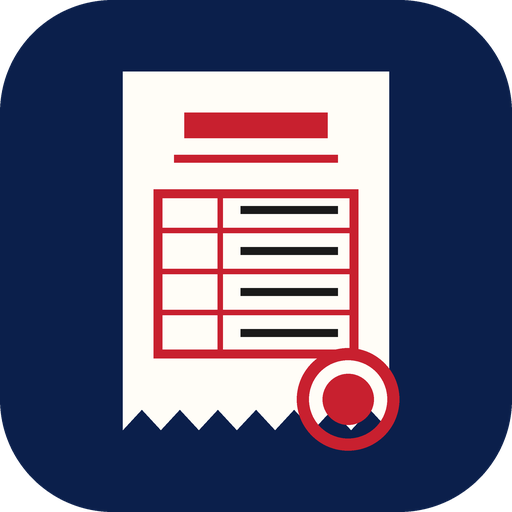
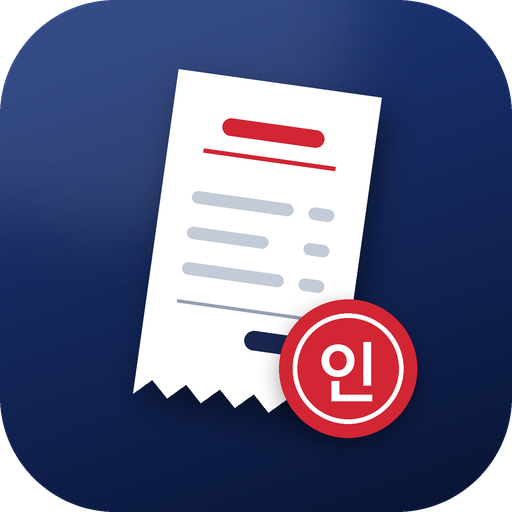
v1.3.1: 앱 아이콘 새 디자인(남색 그라데이션·기울어진 영수증·인 도장)

diff --git a/index.html b/index.html
@@ -7,8 +7,8 @@
   <meta name="description" content="간이영수증 — 실제 영수증 양식으로 만들어 문자·카톡·이메일로 보내기">
   <title>간이영수증</title>
   <link rel="manifest" href="manifest.webmanifest">
-  <link rel="icon" href="icons/icon-192.png">
-  <link rel="apple-touch-icon" href="icons/icon-192.png">
+  <link rel="icon" href="icons/icon-192.png?v=2">
+  <link rel="apple-touch-icon" href="icons/icon-192.png?v=2">
   <link rel="stylesheet" href="style.css">
 </head>
 <body>

diff --git a/sw.js b/sw.js
@@ -1,5 +1,5 @@
 // 앱 화면 파일을 폰에 저장해 인터넷 없이도 열리게 한다. (영수증 데이터는 IndexedDB에 따로 있음)
-const CACHE = 'receipt-v1.3.0';
+const CACHE = 'receipt-v1.3.1';
 const FILES = ['./', 'index.html', 'style.css', 'form.js', 'seal.js', 'check.js', 'app.js', 'manifest.webmanifest', 'icons/icon-192.png', 'icons/icon-512.png', 'icons/icon-maskable-512.png'];
 
 self.addEventListener('install', (e) => {

diff --git a/app.js b/app.js
@@ -4,7 +4,7 @@
  */
 'use strict';
 
-const APP_VERSION = '1.3.0';
+const APP_VERSION = '1.3.1';
 const METHODS = ['계좌이체', '현금', '카드', '기타'];
 const BACKUP_STORES = ['receipts', 'customers', 'items', 'settings'];
 

diff --git a/icons/make_icon.py b/icons/make_icon.py
@@ -1,0 +1,84 @@
+"""간이영수증 앱 아이콘 v2 — 짙은 남색 그라데이션 + 기울어진 흰 영수증 + 빨간 인감 도장."""
+import sys, math
+from PIL import Image, ImageDraw, ImageFilter, ImageFont
+
+OUT = sys.argv[1]
+FONT = r'C:\Windows\Fonts\malgunbd.ttf'
+RED = (210, 38, 52)
+
+def lerp(a, b, t): return tuple(int(a[i] + (b[i] - a[i]) * t) for i in range(3))
+
+def gradient(S):
+    top, bot = (32, 58, 128), (8, 20, 52)
+    im = Image.new('RGB', (S, S))
+    px = im.load()
+    for y in range(S):
+        for x in range(S):
+            t = min(1, max(0, (x * 0.35 + y) / (S * 1.35)))
+            px[x, y] = lerp(top, bot, t)
+    return im
+
+def paper(S, u):
+    """영수증 종이(아래 톱니) RGBA, 크기 S×S 캔버스에 그림"""
+    im = Image.new('RGBA', (S, S), (0, 0, 0, 0))
+    d = ImageDraw.Draw(im)
+    l, r, t, b = 30 * u, 70 * u, 16 * u, 80 * u
+    n = 6; w = (r - l) / n; tooth = 3.2 * u
+    pts = [(l, t), (r, t), (r, b)]
+    for i in range(n):
+        pts += [(r - w * (i + 0.5), b - tooth), (r - w * (i + 1), b)]
+    d.polygon(pts, fill=(255, 255, 255, 255))
+    # 제목: 빨간 굵은 줄 + 얇은 줄
+    d.rounded_rectangle([40 * u, 24 * u, 60 * u, 27.4 * u], radius=1.7 * u, fill=RED)
+    d.rectangle([37 * u, 30.6 * u, 63 * u, 31.4 * u], fill=RED)
+    # 내용 줄(회색)
+    for i, y in enumerate((39, 46, 53)):
+        d.rounded_rectangle([36 * u, y * u, (56 if i != 1 else 52) * u, (y + 2.4) * u], radius=1.2 * u, fill=(196, 203, 216))
+        d.rounded_rectangle([59 * u, y * u, 64 * u, (y + 2.4) * u], radius=1.2 * u, fill=(196, 203, 216))
+    # 합계 줄
+    d.rectangle([36 * u, 60.5 * u, 64 * u, 61.1 * u], fill=(150, 160, 180))
+    d.rounded_rectangle([50 * u, 64.5 * u, 64 * u, 68.3 * u], radius=1.9 * u, fill=(24, 38, 80))
+    return im
+
+def seal(S, u, cx, cy, R):
+    im = Image.new('RGBA', (S, S), (0, 0, 0, 0))
+    d = ImageDraw.Draw(im)
+    d.ellipse([cx - R, cy - R, cx + R, cy + R], fill=RED)
+    rr = R * 0.80
+    d.ellipse([cx - rr, cy - rr, cx + rr, cy + rr], outline=(255, 255, 255, 255), width=max(2, int(R * 0.07)))
+    f = ImageFont.truetype(FONT, int(R * 0.95))
+    d.text((cx, cy + R * 0.02), '인', font=f, fill=(255, 255, 255, 255), anchor='mm')
+    return im
+
+def draw(S, maskable):
+    k = 0.80 if maskable else 1.0
+    u = S * k / 100
+    off = (S - S * k) / 2
+    base = gradient(S).convert('RGBA')
+    # 은은한 빛(왼쪽 위)
+    glow = Image.new('RGBA', (S, S), (0, 0, 0, 0))
+    ImageDraw.Draw(glow).ellipse([-S * 0.3, -S * 0.45, S * 0.75, S * 0.5], fill=(255, 255, 255, 26))
+    base = Image.alpha_composite(base, glow.filter(ImageFilter.GaussianBlur(S * 0.08)))
+    # 종이: 그림자 → 종이(살짝 기울임)
+    p = paper(S, u)
+    p = p.transform(p.size, Image.AFFINE, (1, 0, -off, 0, 1, -off))
+    p = p.rotate(-8, resample=Image.BICUBIC, center=(S / 2, S / 2))
+    sh = Image.new('RGBA', (S, S), (0, 0, 0, 0)); sh.putalpha(p.split()[3].point(lambda a: int(a * 0.45)))
+    sh = sh.transform(sh.size, Image.AFFINE, (1, 0, -S * 0.012, 0, 1, -S * 0.03)).filter(ImageFilter.GaussianBlur(S * 0.03))
+    base = Image.alpha_composite(base, sh)
+    base = Image.alpha_composite(base, p)
+    # 도장: 오른쪽 아래, 종이 모서리에 겹치게
+    cx, cy, R = off + 68 * u, off + 72 * u, 13.5 * u
+    ssh = Image.new('RGBA', (S, S), (0, 0, 0, 0))
+    ImageDraw.Draw(ssh).ellipse([cx - R, cy - R + S * 0.015, cx + R, cy + R + S * 0.015], fill=(0, 0, 0, 90))
+    base = Image.alpha_composite(base, ssh.filter(ImageFilter.GaussianBlur(S * 0.02)))
+    base = Image.alpha_composite(base, seal(S, u, cx, cy, R))
+    if not maskable:  # 둥근 모서리 아이콘
+        m = Image.new('L', (S, S), 0)
+        ImageDraw.Draw(m).rounded_rectangle([0, 0, S - 1, S - 1], radius=int(S * 0.225), fill=255)
+        base.putalpha(m)
+    return base
+
+for name, size, mask in (('icon-192.png', 192, False), ('icon-512.png', 512, False), ('icon-maskable-512.png', 512, True)):
+    draw(size * 3, mask).resize((size, size), Image.LANCZOS).save(f'{OUT}/{name}', optimize=True)
+print('ok')
